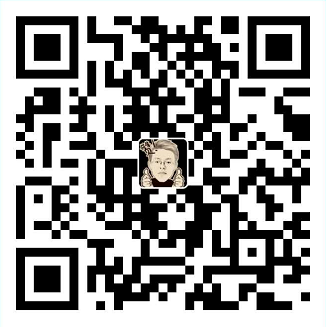
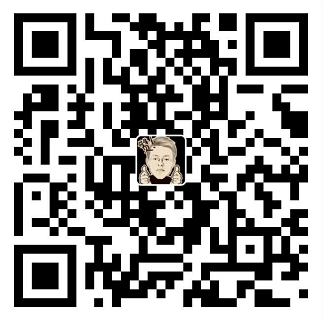
Site updated: 2018-09-06 13:31:31

Changed region(s): [[0.031, 0.0312, 0.9598, 0.9657], [0.6192, 0.6854, 0.6811, 0.7165], [0.5882, 0.7477, 0.6192, 0.7788]]

diff --git a/2018/09/06/hello-world/index.html b/2018/09/06/hello-world/index.html
@@ -172,16 +172,16 @@
     <div class="reward-content">
         
         <div class="reward-code">
-            <img id="rewardCode" src="/images/wechat_jcode.jpg" alt="打赏二维码">
+            <img id="rewardCode" src="/images/wechat_jcode.png" alt="打赏二维码">
         </div>
         <div class="reward-select">
             
-            <label class="reward-select-item checked" data-id="wechat" data-wechat="/images/wechat_jcode.jpg">
+            <label class="reward-select-item checked" data-id="wechat" data-wechat="/images/wechat_jcode.png">
                 <img class="reward-select-item-wechat" src="/images/wechat.png" alt="微信">
             </label>
             
             
-            <label class="reward-select-item" data-id="alipay" data-alipay="/images/alipay_jcode.jpg">
+            <label class="reward-select-item" data-id="alipay" data-alipay="/images/alipay_jcode.png">
                 <img class="reward-select-item-alipay" src="/images/alipay.png" alt="支付宝">
             </label>
             

diff --git a/2018/09/06/hello-world2/index.html b/2018/09/06/hello-world2/index.html
@@ -172,16 +172,16 @@
     <div class="reward-content">
         
         <div class="reward-code">
-            <img id="rewardCode" src="/images/wechat_jcode.jpg" alt="打赏二维码">
+            <img id="rewardCode" src="/images/wechat_jcode.png" alt="打赏二维码">
         </div>
         <div class="reward-select">
             
-            <label class="reward-select-item checked" data-id="wechat" data-wechat="/images/wechat_jcode.jpg">
+            <label class="reward-select-item checked" data-id="wechat" data-wechat="/images/wechat_jcode.png">
                 <img class="reward-select-item-wechat" src="/images/wechat.png" alt="微信">
             </label>
             
             
-            <label class="reward-select-item" data-id="alipay" data-alipay="/images/alipay_jcode.jpg">
+            <label class="reward-select-item" data-id="alipay" data-alipay="/images/alipay_jcode.png">
                 <img class="reward-select-item-alipay" src="/images/alipay.png" alt="支付宝">
             </label>
             

diff --git a/2018/09/06/test/index.html b/2018/09/06/test/index.html
@@ -164,16 +164,16 @@
     <div class="reward-content">
         
         <div class="reward-code">
-            <img id="rewardCode" src="/images/wechat_jcode.jpg" alt="打赏二维码">
+            <img id="rewardCode" src="/images/wechat_jcode.png" alt="打赏二维码">
         </div>
         <div class="reward-select">
             
-            <label class="reward-select-item checked" data-id="wechat" data-wechat="/images/wechat_jcode.jpg">
+            <label class="reward-select-item checked" data-id="wechat" data-wechat="/images/wechat_jcode.png">
                 <img class="reward-select-item-wechat" src="/images/wechat.png" alt="微信">
             </label>
             
             
-            <label class="reward-select-item" data-id="alipay" data-alipay="/images/alipay_jcode.jpg">
+            <label class="reward-select-item" data-id="alipay" data-alipay="/images/alipay_jcode.png">
                 <img class="reward-select-item-alipay" src="/images/alipay.png" alt="支付宝">
             </label>
             
